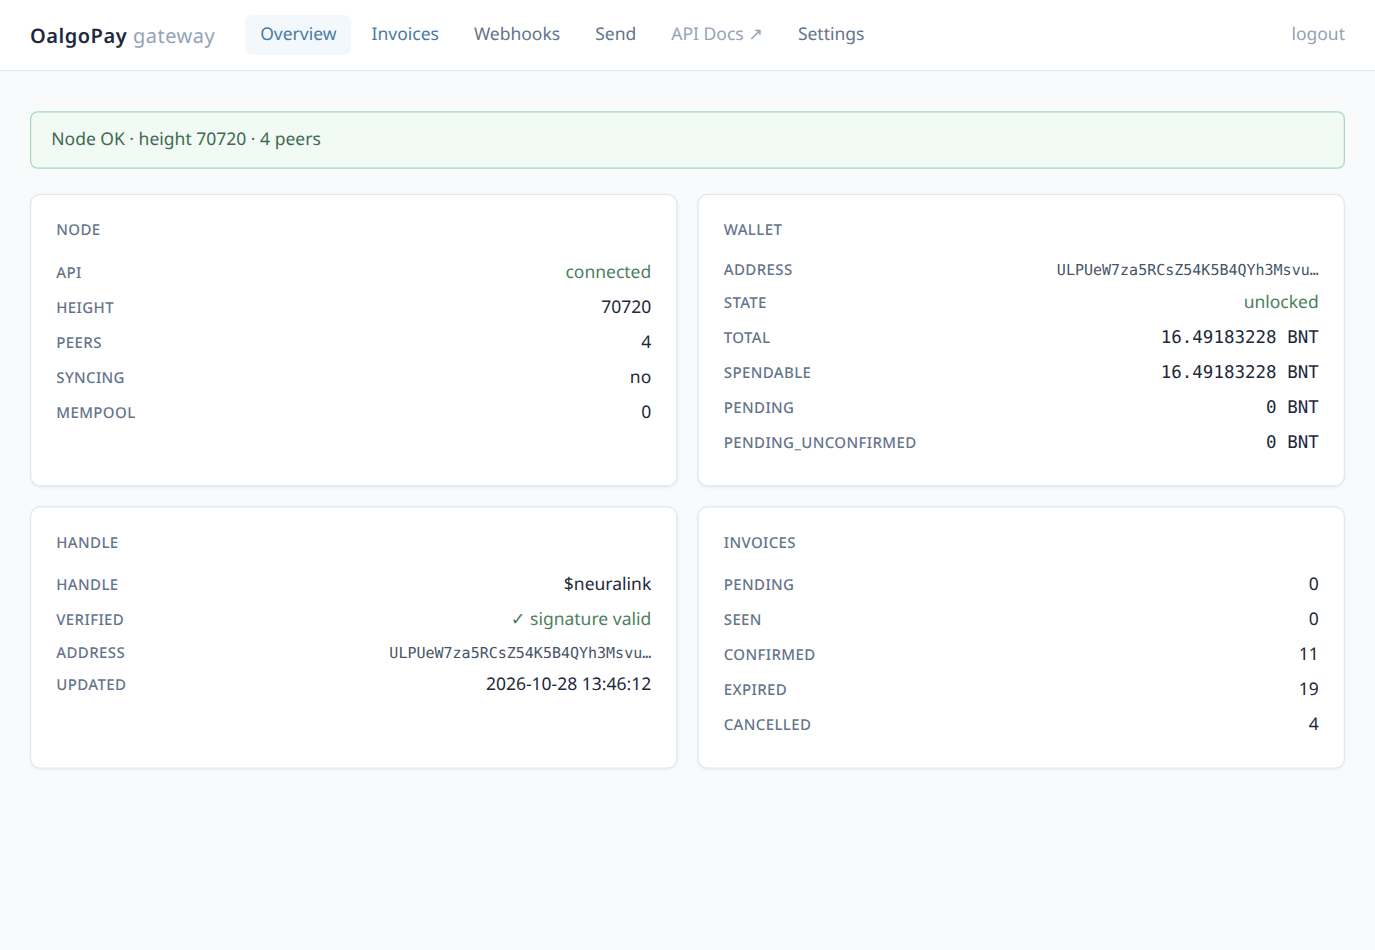
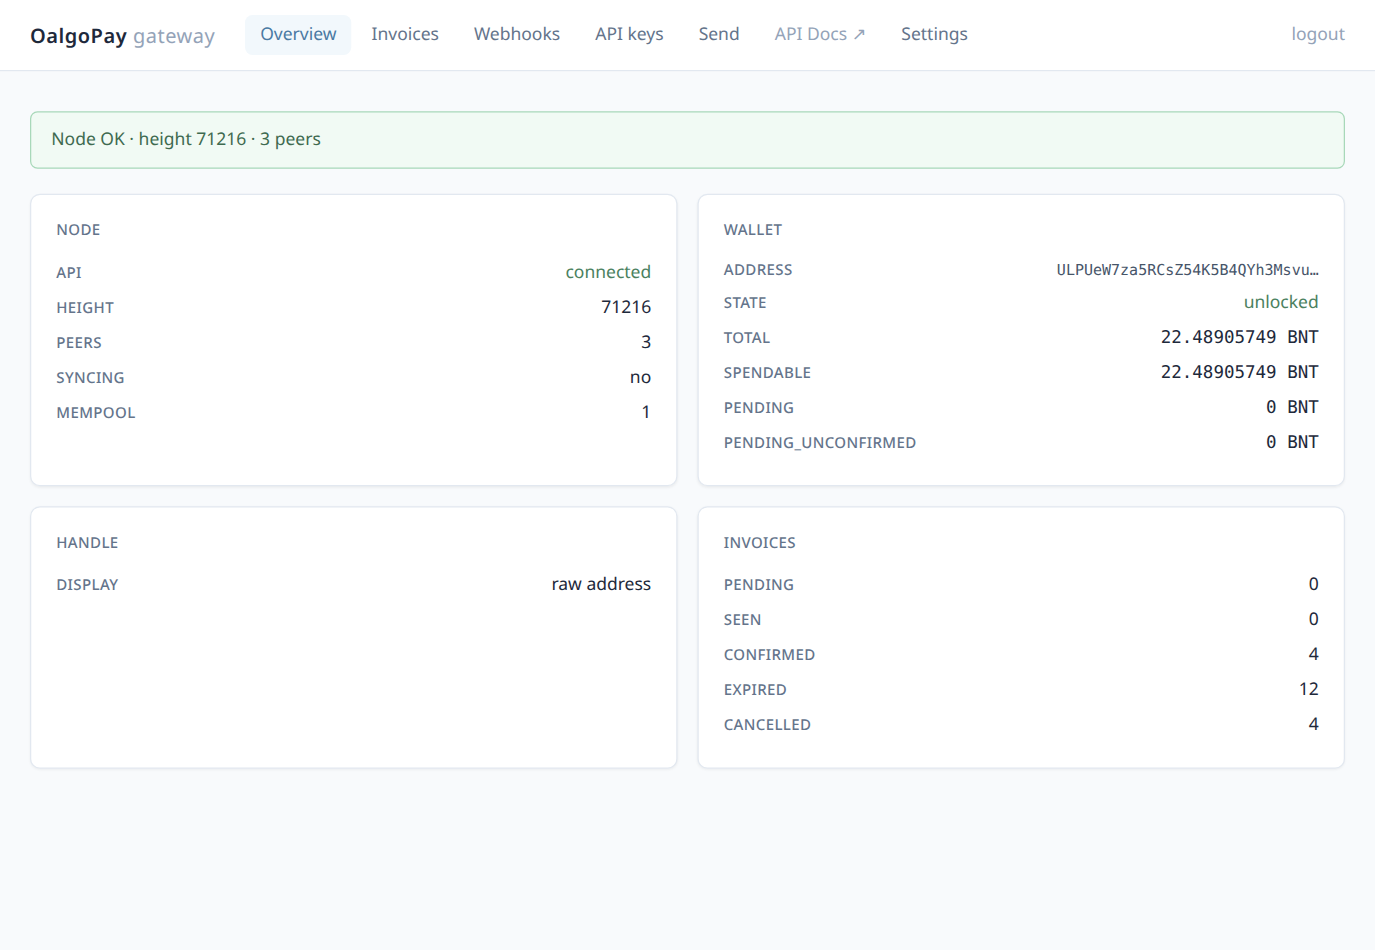
docs + screenshots: reflect current UI (API keys, modal, pay links, payouts)
- README: 4-screenshot hero (pay page, overview, invoices with pay-link
  column + creation banner, API keys tab); feature table adds API keys
  and Examples rows
- API.md: payouts auth now references panel-managed keys (not config);
  merchant auth references API keys tab
- ADMIN.md: invoices section updated for modal detail, pay-link column,
  creation banner, copy pay link action
- All screenshots retaken on current Tailwind UI with live data
- 2 new screenshots: admin-invoices.png, admin-api-keys.png

diff --git a/docs/API.md b/docs/API.md
@@ -2,9 +2,9 @@
 
 Base URL: `http://<gateway-host>:8096`
 
-Auth for `/api/v1/*`: HTTP bearer token — a **merchant** API key, generated
-(and revoked) in the admin panel's **API keys** tab; the `api_token` from
-`config.json`/setup is seeded as one on first boot:
+Auth for `/api/v1/*` (invoices): HTTP bearer token — a **merchant** API key,
+generated (and revoked) in the admin panel's **API keys** tab. The
+`api_token` from `config.json`/setup is seeded as one on first boot:
 
 > **Interactive API docs are built in**: [`/docs`](http://localhost:8096/docs)
 > (Swagger UI — click **Authorize**, choose Bearer, paste your `api_token`,
@@ -168,12 +168,13 @@ those in a browser, or read `app/api/admin.py`.
 
 ## Payouts API — automated payouts
 
-Separate credential on purpose: `Authorization: Bearer <payout_api_key>`
-(`payout_api_key` in `config.json`; blank = the whole surface returns 403).
-Apps that create invoices with `api_token` **cannot** move coins.
+Separate credential on purpose: `Authorization: Bearer <payouts API key>`
+(generated in the admin panel's **API keys** tab, kind: `payouts`; the
+`payout_api_key` from `config.json`/setup is seeded as one on first boot).
+Apps that create invoices with a merchant key **cannot** move coins.
 
 ```bash
-PK=…   # payout_api_key
+PK=…   # payouts API key (admin panel → API keys → Generate, kind: payouts)
 
 # pay out — supply idempotency_key so retries can never double-pay
 curl -s -X POST localhost:8096/api/v1/payouts \

diff --git a/docs/ADMIN.md b/docs/ADMIN.md
@@ -35,16 +35,21 @@ Live dashboard, refreshed on visit:
 
 - **Filter chips** — all / pending / seen / confirmed / expired / cancelled.
 - **Create** — amount (BNT), optional label + expiry minutes (defaults from
-  Settings). The response opens the new invoice's detail with its full JSON
-  (links, URI, QR URL).
-- **Row click** — detail view: status, amounts, memo, URIs, matched payments
-  (`match_method`, block height, confirmations) and webhook delivery history.
-- **Actions** (per status):
+  Settings). A banner shows the new invoice's **pay link** with a copy button.
+- **Pay link column** — copy any invoice's hosted pay page URL without
+  opening the detail.
+- **Row click** — opens a centered **modal** (no scrolling) with the full
+  invoice data: status, amounts, memo, all URIs (`blocknet://`, pay page,
+  bntpay.com, QR), matched payments (`match_method`, block height,
+  confirmations) and webhook delivery history.
+- **Actions** (in the modal, per status):
   - *Cancel* — pending/seen → cancelled (terminal).
   - *Confirm (manual)* — force-confirm; records
     `metadata.manual_confirm {at, previous_status, paid_atomic}` and emits
     `invoice.confirmed`.
+  - *Copy pay link* — copies the hosted pay page URL.
   - *Resend webhooks* — enqueues `invoice.updated` to all active endpoints.
+- **Dismiss modal** — Close button, backdrop click, or Escape.
 
 ### Invoice lifecycle
 
